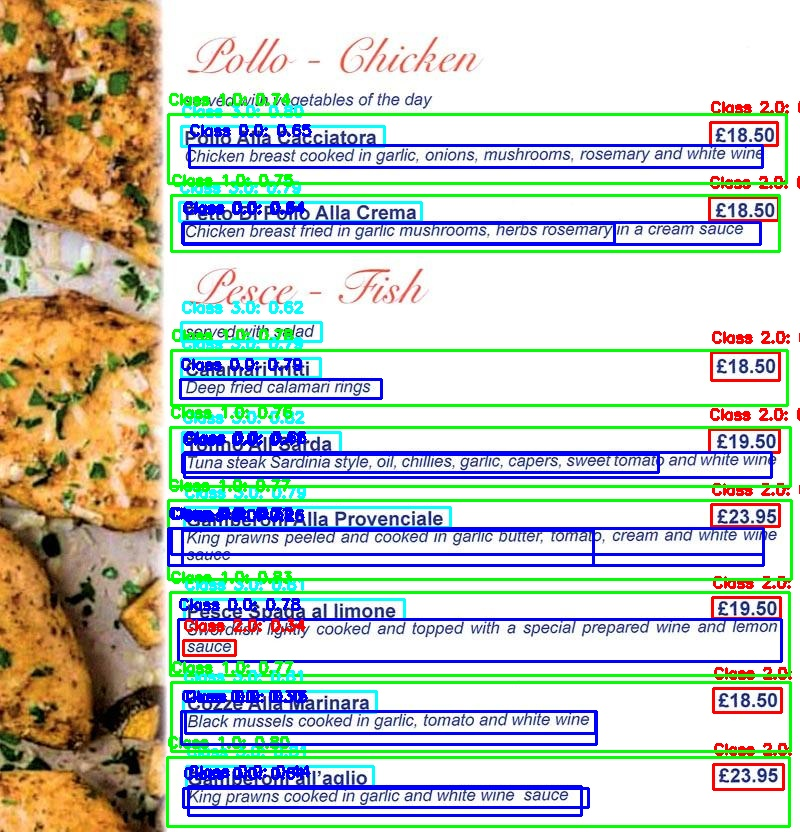
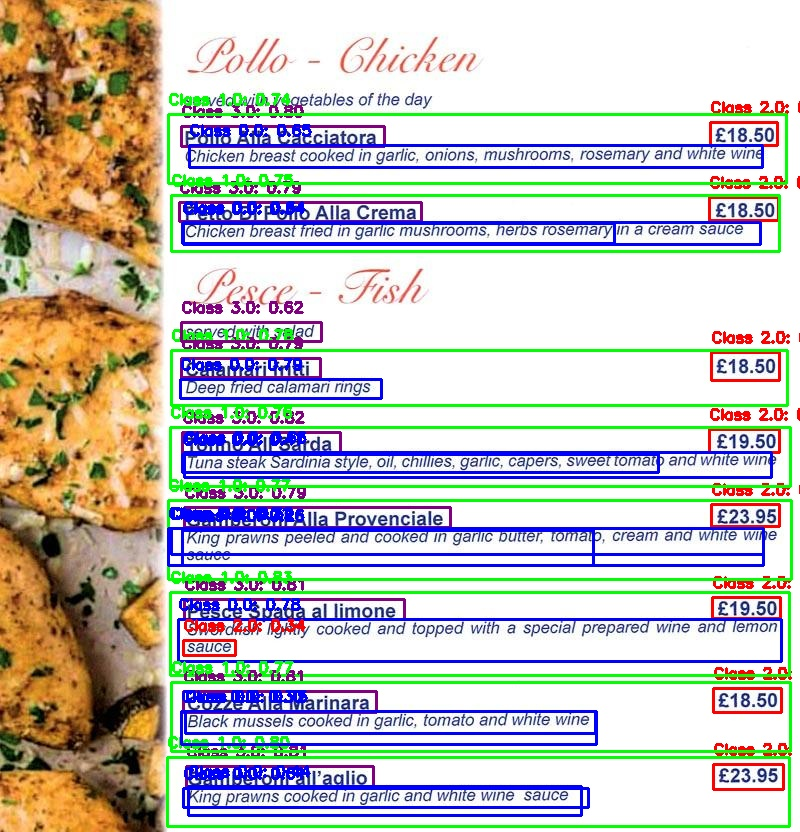
new colors

diff --git a/yolov8_menu_card/model_detect_bbox.py b/yolov8_menu_card/model_detect_bbox.py
@@ -25,10 +25,10 @@ def get_bounding_boxes(image_path, draw=False, output_path="output_with_bboxes.j
     
     # Define colors for each class_id
     colors = {
-        0: (255, 0, 0),    # Red for description
-        1: (0, 255, 0),    # Green for item area
-        2: (0, 0, 255),    # Blue for price
-        3: (255, 255, 0)   # Yellow for title
+        0: (255, 0, 0),    
+        1: (0, 255, 0),    
+        2: (0, 0, 255),   
+        3: (128, 0, 128)
     }
     
     # Extract bounding boxes, confidence scores, and class IDs
